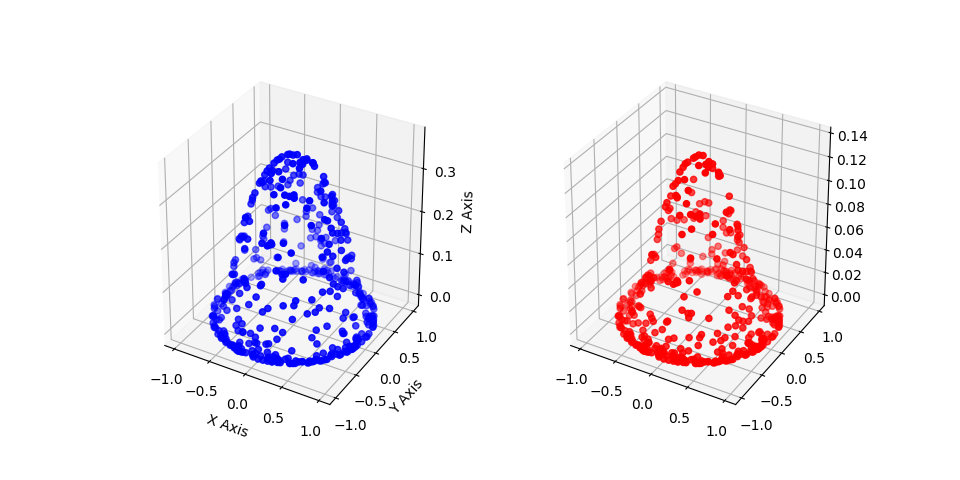
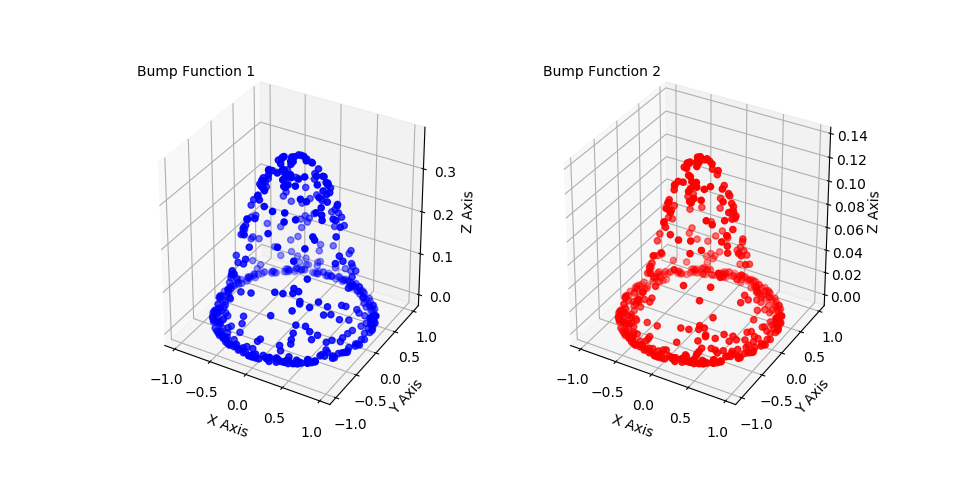
Adding 2D text in bummp function visualization

diff --git a/src/bumpfunction.py b/src/bumpfunction.py
@@ -80,12 +80,17 @@ def plot_main():
 	
 	ax1 = fig.add_subplot(121, projection='3d')
 	ax1.scatter(xi, yi, z1, color='b')
+	ax1.text2D(0.05, 0.95, "Bump Function 1", transform=ax1.transAxes)
 	ax1.set_xlabel('X Axis')
 	ax1.set_ylabel('Y Axis')
 	ax1.set_zlabel('Z Axis')
 
 	ax2 = fig.add_subplot(122, projection='3d')
 	ax2.scatter(xi, yi, z2, color='r')
+	ax2.text2D(0.05, 0.95, "Bump Function 2", transform=ax2.transAxes)
+	ax2.set_xlabel('X Axis')
+	ax2.set_ylabel('Y Axis')
+	ax2.set_zlabel('Z Axis')
 
 	fig.savefig('../images/bumpfunctions.png')
 	plt.show()
